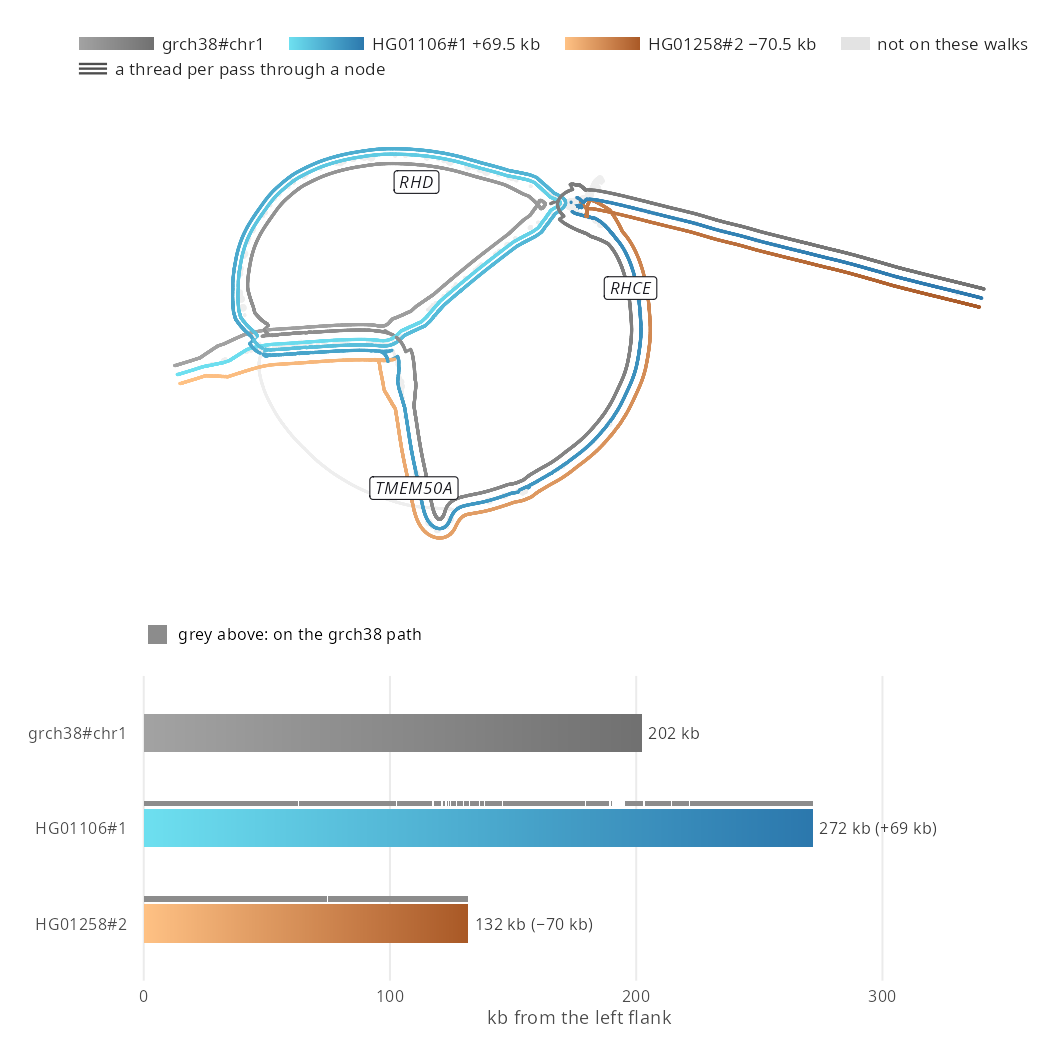
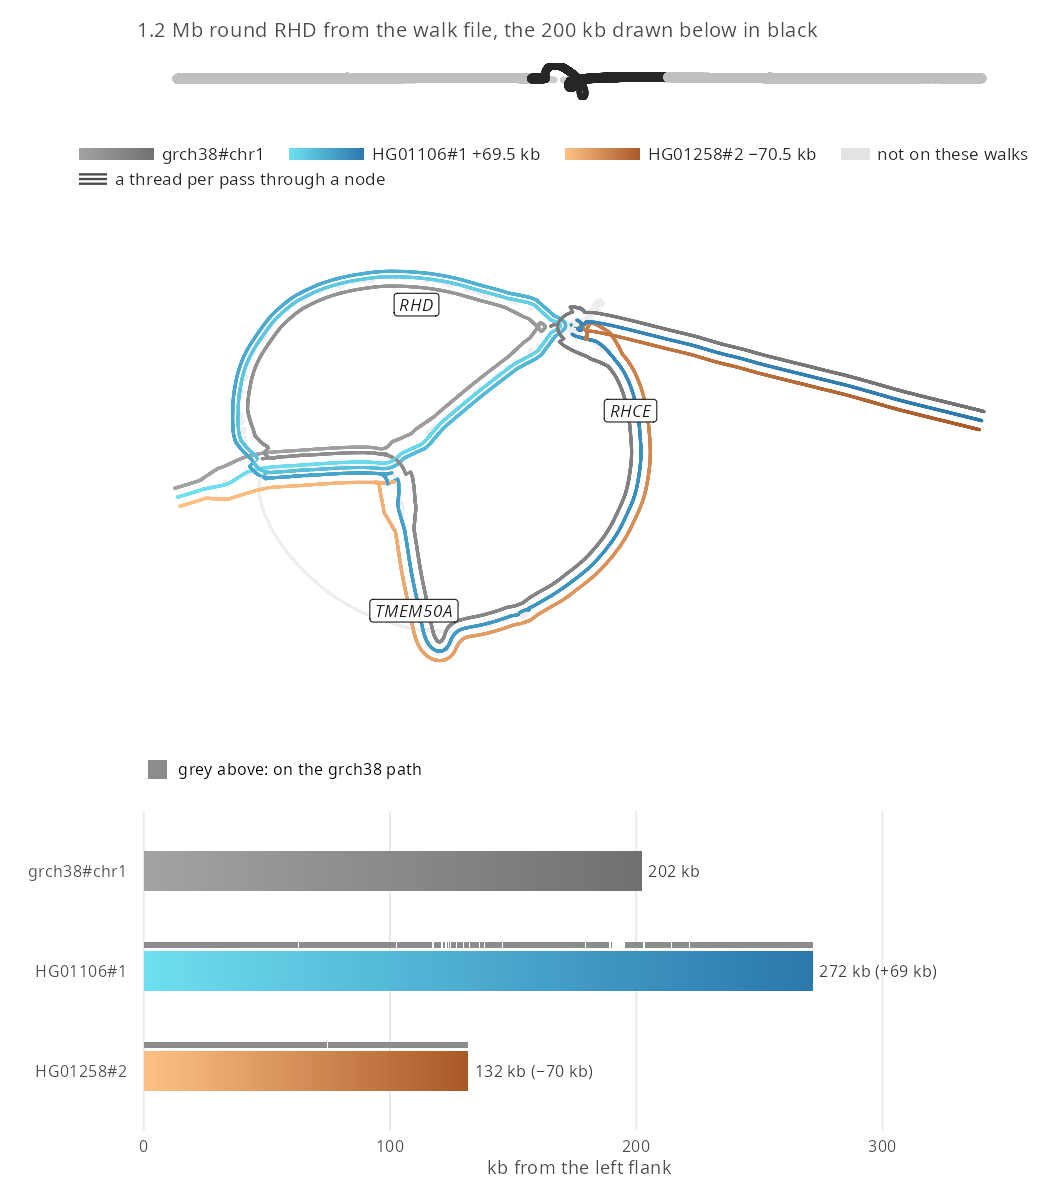
Set the RHD figure under a strip of the 1.2 Mb round it
A strip on top cuts chr1:24.75-25.95 Mb from the walk file for the same
walks and draws it grey, black over the 200 kb the syng graph shows.
Past the Rhesus boxes the walks run in one line, and the knot sits
where the close-up does.

The strip uses the walk file because a syng graph that wide, built the
same way, ties distant copies of short repeats into loops: 4 nodes,
134 bp, tie 24.75 Mb to 24.8 Mb, and 12 nodes tie 25.05 Mb to 25.5 Mb.

diff --git a/README.md b/README.md
@@ -78,7 +78,7 @@ kinds of index, exporting a region as GFA, and building a region's syng graph.
 <!-- gallery -->
 <table>
 <tr><td width="25%"><a href="docs/gallery.md#cfhr3-and-cfhr1-deleted-in-one-haplotype"><img src="gallery/cfh_overlay.png" alt="Force-directed CFH locus with GRCh38, HG00097 and HG02055 lifted together, each shaded along its own length: GRCh38 grey, HG00097 cyan to blue and HG02055 pink to plum. GRCh38 and HG00097 run the loop through CFHR3 and CFHR1, and HG02055 alone takes the dashed deletion edge under it. Walk rows below, each on its walk's ramp, give the lengths, GRCh38 and HG00097 260 kb and HG02055 176 kb, and the ribbons from HG00097 down to HG02055 break across the 85 kb HG02055 lacks" width="100%"></a><br>CFHR3 and CFHR1 deleted in one haplotype</td><td width="25%"><a href="docs/gallery.md#kiv-2-copy-number-as-walk-rows"><img src="gallery/kiv2_rows.png" alt="Walk rows at KIV-2 on a bp-from-flank axis: between the flanking reference nodes GRCh38 spans 31 kb and HG00133#2 164 kb, and the extra copies, on non-reference nodes, fall into three blocks: A, 68 kb walked by HG02055#1 and HG00133#2; B, 22 kb walked by four haplotypes; and C, 5.5 kb walked by two" width="100%"></a><br>KIV-2 copy number as walk rows</td><td width="25%"><a href="docs/gallery.md#amylase-haplotypes-from-146-to-475-kb"><img src="gallery/amylase_rows.png" alt="Walk rows over the salivary amylase genes for GRCh38 and seven haplotypes, each bar coloured by the GRCh38 position it covers: against GRCh38's 240 kb the haplotypes span 146 kb to 475 kb. HG00128#1 and HG002#1 walk the non-reference block A twice, CHM13 and HG00097#2 once, HG00099#1 and HG00097#1 walk block C in its place, and HG00097#1 has a 19 kb stretch the graph lacks, drawn as an open box" width="100%"></a><br>Amylase haplotypes from 146 to 475 kb</td><td width="25%"><a href="docs/gallery.md#cyp2d6-deletion-as-an-arch-over-the-gene"><img src="gallery/cyp2d6_stress.png" alt="Stress layout of CYP2D6 from the hosted index, GRCh38 drawn straight and coloured by position from NDUFA6-DT to CYP2D7, exons outlined in gold: a dashed arch spans CYP2D6, the route of haplotypes that skip the gene, and non-reference sequence hangs in charcoal loops above and below" width="100%"></a><br>CYP2D6 deletion as an arch over the gene</td></tr>
-<tr><td width="25%"><a href="docs/gallery.md#kiv-2-expansions-as-extra-loops"><img src="gallery/kiv2_overlay.png" alt="Force-directed KIV-2 array with GRCh38, HG00133 and HG00097 lifted together, each shaded along its own length from light to mid-tone: GRCh38 grey, HG00133 cyan to blue, 133 kb longer, and HG00097 yellow to red-orange, 22.2 kb longer. Where walks share nodes their lanes run side by side. HG00133 and HG00097 run the loop at the right together, and HG00133 alone runs the large loop below and the loops at the top right and left. Walk rows below, each on its walk's ramp under a grey strip where it runs on the GRCh38 path, give the lengths: GRCh38 31 kb, HG00133 164 kb and HG00097 53 kb, with the right loop outlined as block A in both" width="100%"></a><br>KIV-2 expansions as extra loops</td><td width="25%"><a href="docs/gallery.md#c4-copies-as-threads-round-a-syng-ring"><img src="gallery/syng_overlay.png" alt="The syng graph of C4 with three walks lifted together, each shaded light to dark along its own length, grch38#chr6 grey, HG01978#2 cyan to blue and HG01952#1 peach to rust, and a thread for every pass through a node: round the ring, outside in, grch38#chr6 draws two threads, HG01978#2 three, its extra C4 copy, and HG01952#1 two, each pass darker than the one before. Grey and blue threads run round the HERV-K loop at the left, and the orange ones cut across it. Walk rows below, each on its walk's ramp under a grey strip where it runs on the grch38 path, give the lengths: grch38#chr6 84 kb, HG01978#2 116 kb and HG01952#1 71 kb" width="100%"></a><br>C4 copies as threads round a syng ring</td><td width="25%"><a href="docs/gallery.md#rhd-deletion-and-duplication-in-a-syng-graph"><img src="gallery/syng_rhd.png" alt="Force-directed syng graph of RHD from 19 HPRC haplotypes with three walks lifted together, each shaded light to dark along its own length, grch38 grey, HG01106#1 cyan to blue and HG01258#2 peach to rust, and a thread for every pass through a node. Through the Rhesus box at the left, grch38 draws two threads, HG01106#1 three and HG01258#2 one, each pass darker than the one before. Round the loop at the top, labelled RHD, grch38 draws one thread, HG01106#1 two, its second RHD, and HG01258#2 none, taking the box straight on to the loop below, labelled TMEM50A and RHCE, that every walk runs once. In the walk rows below, each on its walk's ramp under a grey strip where it runs on the grch38 path, grch38 spans 202 kb, HG01106#1 272 kb and HG01258#2 132 kb" width="100%"></a><br>RHD deletion and duplication in a syng graph</td><td width="25%"><a href="docs/gallery.md#your-own-colours-kiv-2-nodes-by-walk-visits"><img src="gallery/own_colours.png" alt="The KIV-2 array cut from the walk file, force-directed and drawn with plain ggplot2 layers: grey edges, and each node coloured by how many times the cut's walks visit it, light for once to dark for six" width="100%"></a><br>Your own colours: KIV-2 nodes by walk visits</td></tr>
+<tr><td width="25%"><a href="docs/gallery.md#kiv-2-expansions-as-extra-loops"><img src="gallery/kiv2_overlay.png" alt="Force-directed KIV-2 array with GRCh38, HG00133 and HG00097 lifted together, each shaded along its own length from light to mid-tone: GRCh38 grey, HG00133 cyan to blue, 133 kb longer, and HG00097 yellow to red-orange, 22.2 kb longer. Where walks share nodes their lanes run side by side. HG00133 and HG00097 run the loop at the right together, and HG00133 alone runs the large loop below and the loops at the top right and left. Walk rows below, each on its walk's ramp under a grey strip where it runs on the GRCh38 path, give the lengths: GRCh38 31 kb, HG00133 164 kb and HG00097 53 kb, with the right loop outlined as block A in both" width="100%"></a><br>KIV-2 expansions as extra loops</td><td width="25%"><a href="docs/gallery.md#c4-copies-as-threads-round-a-syng-ring"><img src="gallery/syng_overlay.png" alt="The syng graph of C4 with three walks lifted together, each shaded light to dark along its own length, grch38#chr6 grey, HG01978#2 cyan to blue and HG01952#1 peach to rust, and a thread for every pass through a node: round the ring, outside in, grch38#chr6 draws two threads, HG01978#2 three, its extra C4 copy, and HG01952#1 two, each pass darker than the one before. Grey and blue threads run round the HERV-K loop at the left, and the orange ones cut across it. Walk rows below, each on its walk's ramp under a grey strip where it runs on the grch38 path, give the lengths: grch38#chr6 84 kb, HG01978#2 116 kb and HG01952#1 71 kb" width="100%"></a><br>C4 copies as threads round a syng ring</td><td width="25%"><a href="docs/gallery.md#rhd-deletion-and-duplication-in-a-syng-graph"><img src="gallery/syng_rhd.png" alt="A strip on top draws 1.2 Mb round RHD from the walk file for the same walks as a straight grey line, black over the 200 kb drawn below, where it knots once. Under it, a force-directed syng graph of RHD from 19 HPRC haplotypes with three walks lifted together, each shaded light to dark along its own length, grch38 grey, HG01106#1 cyan to blue and HG01258#2 peach to rust, and a thread for every pass through a node. Through the Rhesus box at the left, grch38 draws two threads, HG01106#1 three and HG01258#2 one, each pass darker than the one before. Round the loop at the top, labelled RHD, grch38 draws one thread, HG01106#1 two, its second RHD, and HG01258#2 none, taking the box straight on to the loop below, labelled TMEM50A and RHCE, that every walk runs once. In the walk rows below, each on its walk's ramp under a grey strip where it runs on the grch38 path, grch38 spans 202 kb, HG01106#1 272 kb and HG01258#2 132 kb" width="100%"></a><br>RHD deletion and duplication in a syng graph</td><td width="25%"><a href="docs/gallery.md#your-own-colours-kiv-2-nodes-by-walk-visits"><img src="gallery/own_colours.png" alt="The KIV-2 array cut from the walk file, force-directed and drawn with plain ggplot2 layers: grey edges, and each node coloured by how many times the cut's walks visit it, light for once to dark for six" width="100%"></a><br>Your own colours: KIV-2 nodes by walk visits</td></tr>
 </table>
 <!-- /gallery -->
 

diff --git a/docs/gallery.md b/docs/gallery.md
@@ -154,13 +154,18 @@ graph with [impg](https://github.com/pangenome/impg). ggbandage ships it in
 - Six of the 18 other haplotypes span about 132 kb. They walk the boxes once and
   skip RHD, the deletion that most often makes blood RhD-negative
 - HG01106#1 walks the boxes three times and has a second RHD
+- The strip on top cuts 1.2 Mb from the walk file for the same walks. Past the
+  Rhesus boxes they run in one line. A syng graph that wide would tie distant
+  copies of short repeats into loops, so the strip uses the walk file
 
-![Force-directed syng graph of RHD from 19 HPRC haplotypes with three walks lifted together, each shaded light to dark along its own length, grch38 grey, HG01106#1 cyan to blue and HG01258#2 peach to rust, and a thread for every pass through a node. Through the Rhesus box at the left, grch38 draws two threads, HG01106#1 three and HG01258#2 one, each pass darker than the one before. Round the loop at the top, labelled RHD, grch38 draws one thread, HG01106#1 two, its second RHD, and HG01258#2 none, taking the box straight on to the loop below, labelled TMEM50A and RHCE, that every walk runs once. In the walk rows below, each on its walk's ramp under a grey strip where it runs on the grch38 path, grch38 spans 202 kb, HG01106#1 272 kb and HG01258#2 132 kb](../gallery/syng_rhd.png)
+![A strip on top draws 1.2 Mb round RHD from the walk file for the same walks as a straight grey line, black over the 200 kb drawn below, where it knots once. Under it, a force-directed syng graph of RHD from 19 HPRC haplotypes with three walks lifted together, each shaded light to dark along its own length, grch38 grey, HG01106#1 cyan to blue and HG01258#2 peach to rust, and a thread for every pass through a node. Through the Rhesus box at the left, grch38 draws two threads, HG01106#1 three and HG01258#2 one, each pass darker than the one before. Round the loop at the top, labelled RHD, grch38 draws one thread, HG01106#1 two, its second RHD, and HG01258#2 none, taking the box straight on to the loop below, labelled TMEM50A and RHCE, that every walk runs once. In the walk rows below, each on its walk's ramp under a grey strip where it runs on the grch38 path, grch38 spans 202 kb, HG01106#1 272 kb and HG01258#2 132 kb](../gallery/syng_rhd.png)
 
 ```r
 library(ggbandage)
+library(ggplot2)
 library(patchwork)
 
+walks <- "https://jbrowse.org/demos/hprc/hprc-v2.1-mc-grch38-f5.GRCh38.walks.bed.gz"
 genes <- "https://jbrowse.org/ucsc/hg38/ncbiRefSeq.gff.gz"
 
 rhd_syng <- system.file("extdata", "rhd.syng.gfa.gz", package = "ggbandage")
@@ -171,7 +176,18 @@ g <- bandage_layout(rhd_syng, walks = progress, genes = genes)
 g$genes <- g$genes[g$genes$gene %in% c("RHD", "TMEM50A", "RHCE"), ]
 g$exons <- g$exons[0, ]
 rows <- bandage_walk_rows(rhd_syng, haplotypes = haps)
-autoplot(g) / autoplot(rows, ribbons = FALSE, hues = "walk", layout = g) + plot_layout(heights = c(1.6, 1))
+wide <- bandage_layout(walks, region = "chr1:24,750,000-25,950,000", haplotypes = haps)
+context <- ggplot(wide) +
+  geom_bandage_edges(aes(colour = I("grey80"))) +
+  geom_bandage_nodes(aes(colour = I(ifelse(
+    !is.na(position) & position > 25.25e6 & position < 25.45e6, "grey15", "grey75"
+  )))) +
+  coord_fixed() +
+  theme_void() +
+  theme(plot.subtitle = element_text(size = 10, colour = "grey30")) +
+  labs(subtitle = "1.2 Mb round RHD from the walk file, the 200 kb drawn below in black")
+context / autoplot(g) / autoplot(rows, ribbons = FALSE, hues = "walk", layout = g) +
+  plot_layout(heights = c(0.25, 1.6, 1))
 ```
 
 ## Your own colours: KIV-2 nodes by walk visits
